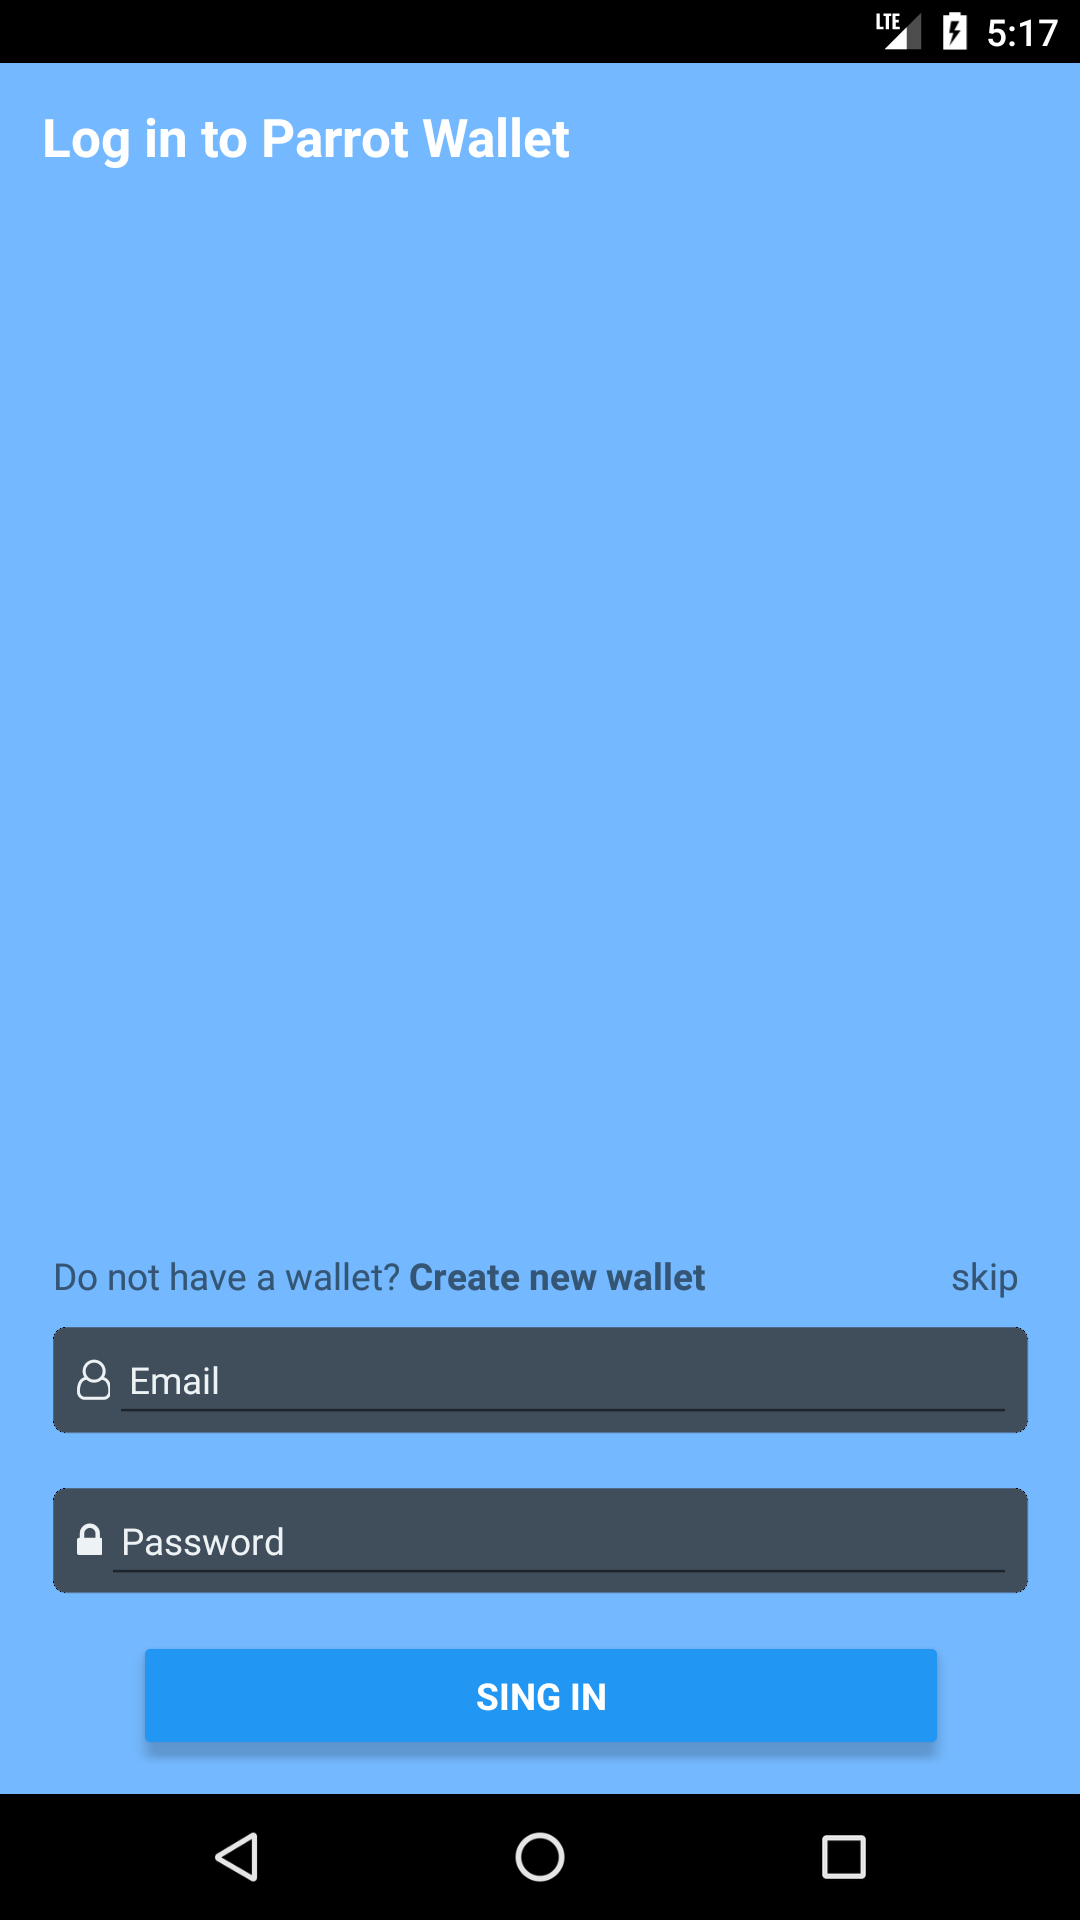
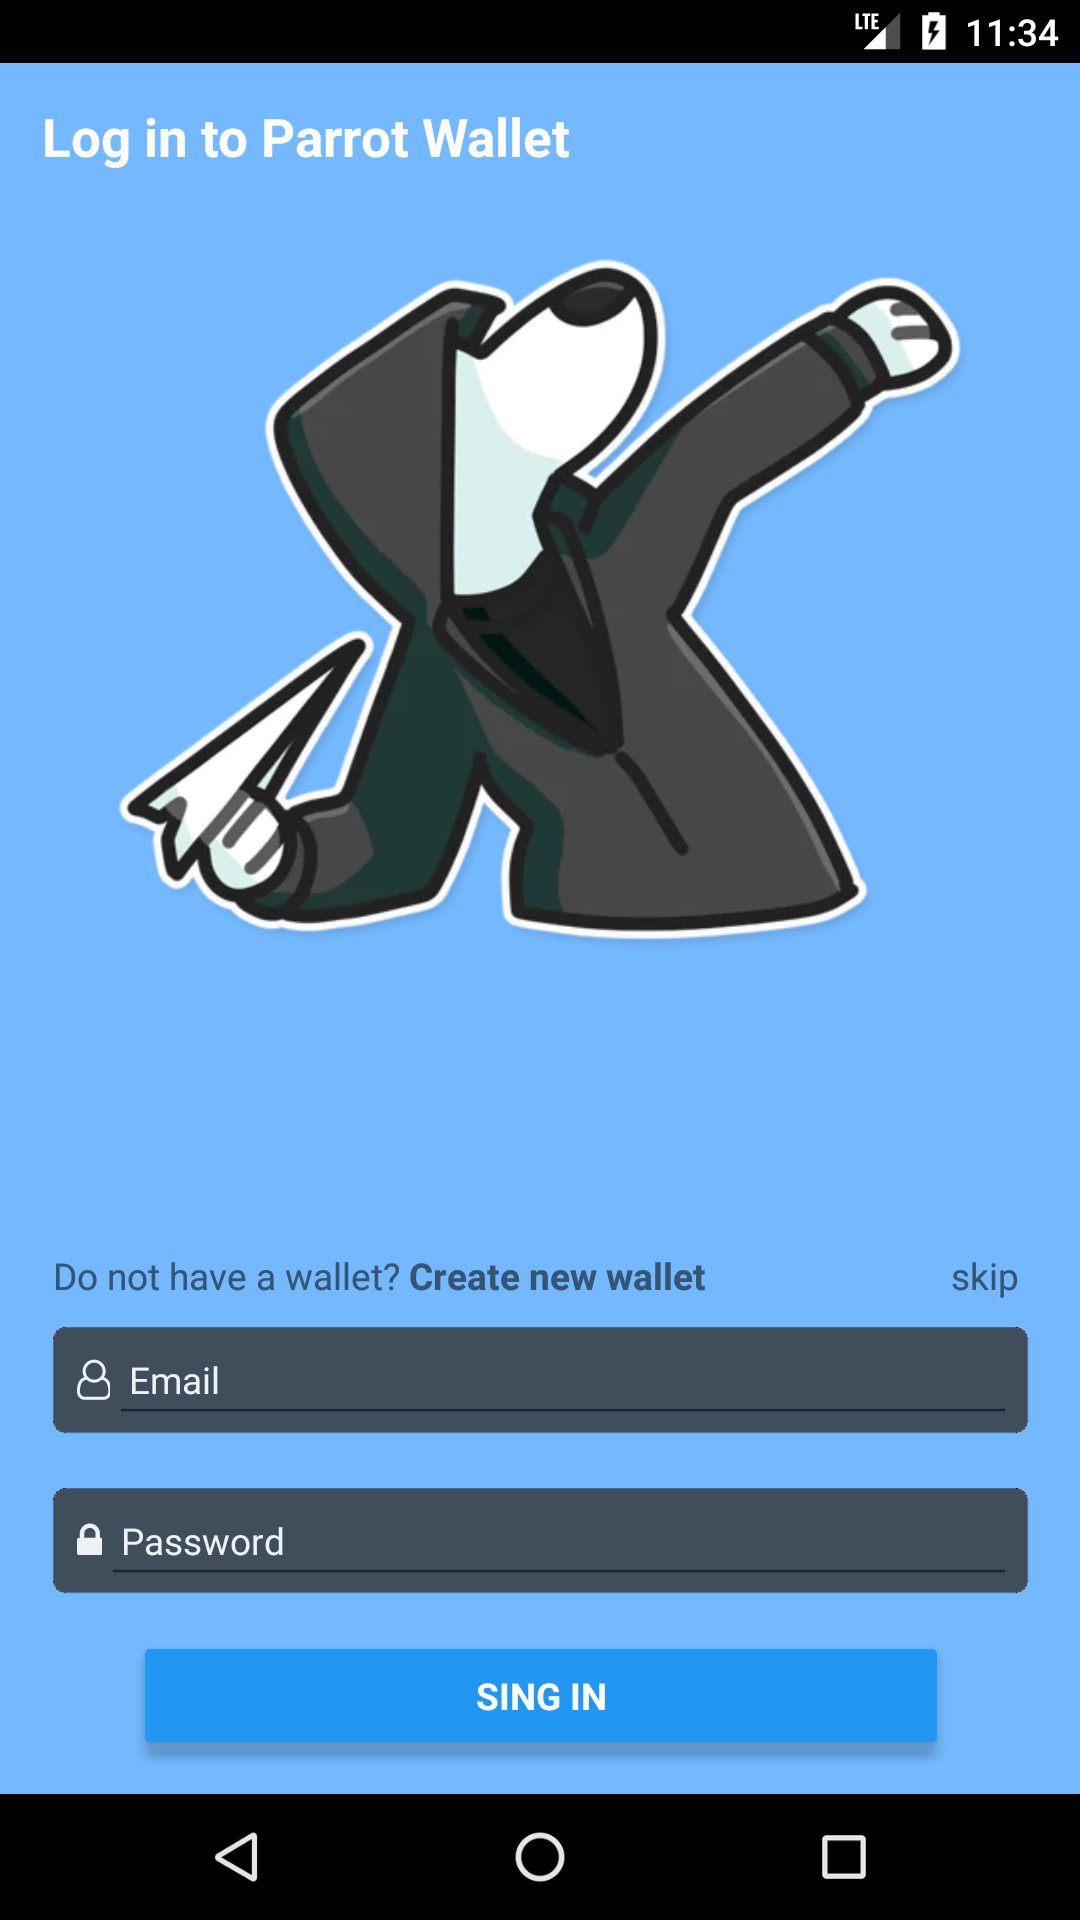
loginscreen: image added

Changed region(s): [[0.0917, 0.125, 0.8861, 0.5], [0.7944, 0.0, 0.9778, 0.0312]]

diff --git a/src/screens/LoginScreen.js b/src/screens/LoginScreen.js
@@ -4,7 +4,9 @@ import {
     Text,
     View,
     StyleSheet,
-    TouchableOpacity, ToastAndroid
+    TouchableOpacity,
+    ToastAndroid,
+    Image
 } from "react-native";
 
 import {
@@ -122,6 +124,10 @@ class LoginScreen extends Component {
         return (
             <View style={styles.container}>
                 <View style={styles.formSection}>
+                    <View style={{justifyContent: 'center',
+                        alignItems: 'center',}}>
+                        <Image style={styles.image} source={require('../../resources/screenshots/sticker.webp')}/>
+                    </View>
                     <View style={styles.formSectionInner}>
                         <View>
                             <View style={styles.loginLinks}>
@@ -190,7 +196,11 @@ const styles = StyleSheet.create({
         flex: 1,
         flexDirection: 'row',
         paddingBottom: 10,
-    }
+    },
+    image: {
+        width: '80%',
+        resizeMode: 'contain',
+    },
 });
 
 export default LoginScreen
